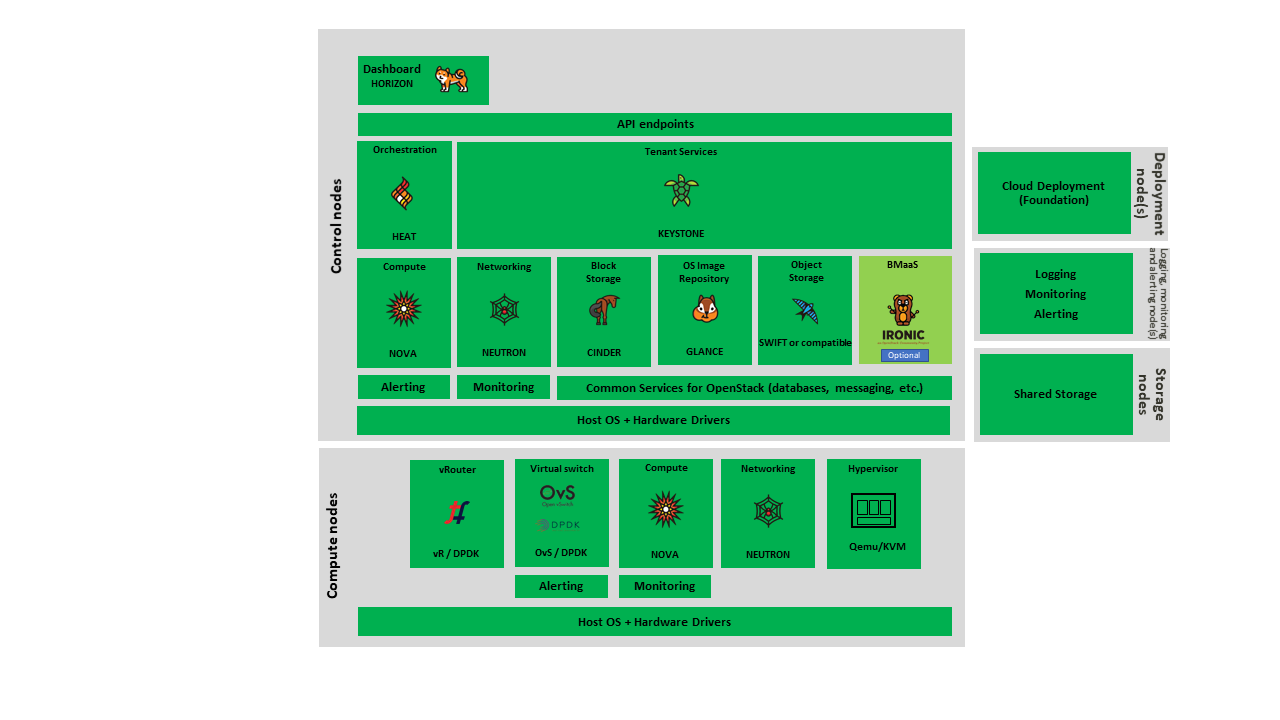
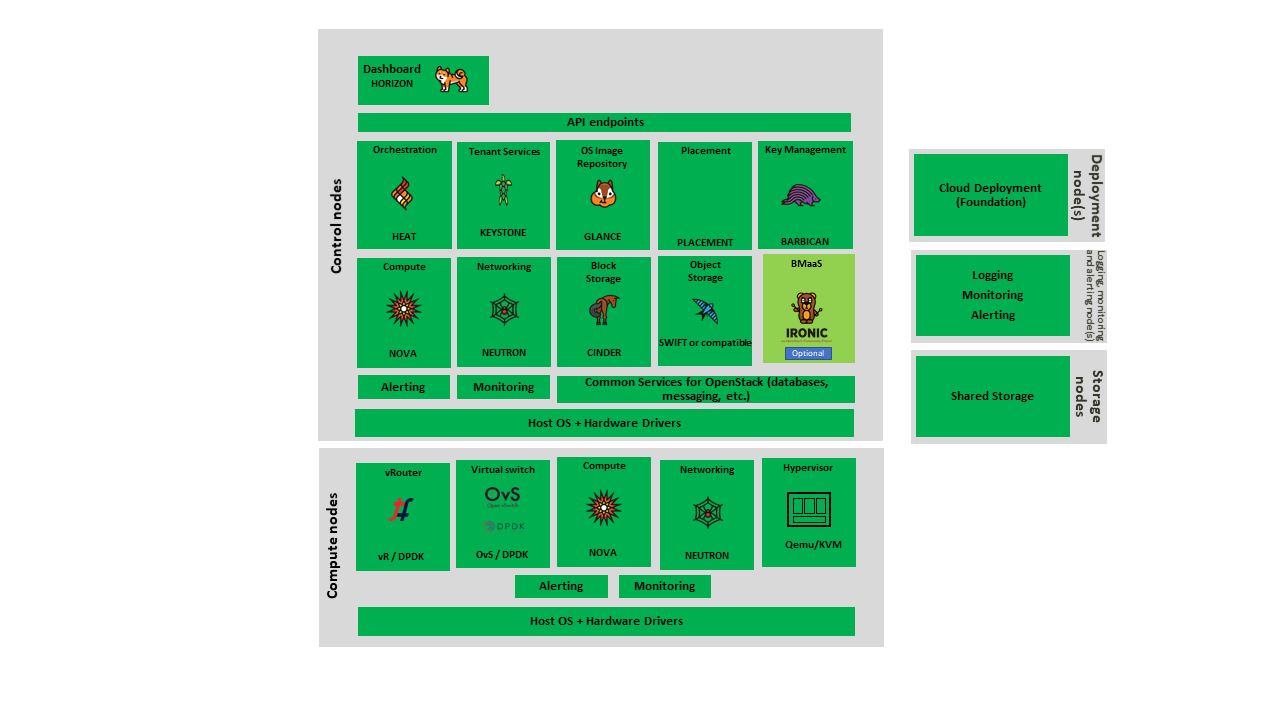
[RA1 Ch03] Placement Service (#1938)
* [RA1 Ch03] Placement Service

3.3.1.3 Cloud Controller Services: Split Nova entry into Placement and Nova

Fixes #1887

* [RA1 Ch04] Placement Service

Changes to 4.3.1.6 Nova and 4.3.1.10 Placement for OSTK Train.

* [RA1 Figures] Delete Core Srevices Figure

Delete RA1-Ch03-Core-Cloud-Infra-Services.png -- will be replaced by new Figure

* [RA1 Figures] Upload New Core Services Figure

Upload New Core Services Figure with Barbican and Placement Srevices

* [RA1 Figures] Upload New Core Srevices Figure

* [RA1 Figures] Delete old source file

Delete old source file -- will be replaced with source file for updated figure

* [RA1 Figures] Upload Source for Update Figure

* [RA1 Ch04] 4.3.1.10 spelling "prior"

Changed region(s): [[0.2812, 0.0306, 0.9375, 0.9167], [0.4062, 0.8556, 0.5625, 0.8861]]

diff --git a/doc/ref_arch/openstack/chapters/chapter04.md b/doc/ref_arch/openstack/chapters/chapter04.md
@@ -565,13 +565,14 @@ SDN provides a truly scalable and preferred solution to suport dynamic, very lar
 #### 4.3.1.6 Nova
 Nova is the compute management service, Nova depends on all above components and is deployed after. Nova has services running on the control nodes and the compute nodes:
 -	nova-metadata-api
--	nova-placement-api
 -	nova-compute api
 -	nova-consoleauth
 -	nova-scheduler
 -	nova-conductor
 -	nova-novncproxy
 -	nova-compute-agent which runs on Compute node
+
+Please note that the Placeemnt-API must have been installed and configured prior to nova compute starts.
 
 #### 4.3.1.7 Ironic
 Ironic is the bare metal provisioning service. Ironic depends on all above components and is deployed after. Ironic has services running on the control nodes and the compute nodes:
@@ -600,7 +601,7 @@ Cyborg is the acceleration resources management service. Cyborg depends on Nova 
 -->
 
 #### 4.3.1.10 Placement
-The OpenStack Placement service enables tracking (or accounting) and scheduling of resources. It provides a RESTful API and a data model for the managing of resource provider inventories and usage for different classes of resources. In addition to standard resource classes, such as VCPU, MEMORY_MB and DISK_GB, the Placement service supports custom resource classes (prefixed with “CUSTOM_”).  The placement service is primarily utilized by nova-compute and nova-scheduler. Other OpenStack services such as Neutron or Cyborg can also utilize placement and do so by creating [Provider Trees]( https://docs.openstack.org/placement/latest/user/provider-tree.html). The following data objects are utilized in the [placement service]( https://docs.openstack.org/placement/latest/user/index.html): 
+The OpenStack [Placement service](https://docs.openstack.org/placement/train/index.html) enables tracking (or accounting) and scheduling of resources. It provides a RESTful API and a data model for the managing of resource provider inventories and usage for different classes of resources. In addition to standard resource classes, such as vCPU, MEMORY_MB and DISK_GB, the Placement service supports custom resource classes (prefixed with “CUSTOM_”) provided by some external resource pools such as a shared storage pool provided by, say, Ceph.  The placement service is primarily utilized by nova-compute and nova-scheduler. Other OpenStack services such as Neutron or Cyborg can also utilize placement and do so by creating [Provider Trees]( https://docs.openstack.org/placement/latest/user/provider-tree.html). The following data objects are utilized in the [placement service]( https://docs.openstack.org/placement/latest/user/index.html): 
 
 <p>Resource Providers provide consumable inventory of one or more classes of resources (cpu, memory or disk). A resource provider can be a compute host, for example.</p>
     
@@ -613,6 +614,12 @@ The OpenStack Placement service enables tracking (or accounting) and scheduling 
 <p>Allocations represent resources that have been assigned/used by some consumer of that resource.</p>
     
 <p>Allocation candidates is the collection of resource providers that can satisfy an allocation request.</p>
+
+
+The Placement API is stateless and, thus, resiliency, availability and scaling, it is possible to deploy as many servers as needed. On start, the nova-compute service will attempt to make a connection to the Placement API and keep attempting to connect to the Placement API, logging and warning periodically until successful. Thus, the Placement API must be installed and enabled prior to Nova compute.
+
+Placement has services running on the control node:
+-	nova-placement-api
 
 #### 4.3.1.11 Barbican
 [Barbican](https://docs.openstack.org/barbican/train/) is the OpenStack Key Manager service. It is an optional service hosted on controller nodes. It provides secure storage, provisioning and management of secrets as passwords, encryption keys and X.509 Certificates. Barbican API is used to centrally manage secrets used by OpenStack services, e.g. symmetric encryption keys used for Block storage encryption or Object Storage encryption or asymmetric keys and certificates used for Glance image signing and verification. 

diff --git a/doc/ref_arch/openstack/chapters/chapter03.md b/doc/ref_arch/openstack/chapters/chapter03.md
@@ -207,18 +207,19 @@ The following OpenStack components are deployed on the Infrastructure. Some of t
 
 | RM Management Software| Service| Description| Required / Optional| Deployed on Controller Nodes| Deployed on Compute Nodes |
 |-----------------------|-------------|----------------------|----------------|-----------|---------|
-| Identity Management (Additional Management Functions) + Catalogue| Keystone| the authentication service| Required| X|  |
-| Storage Resources Manager| Glance| the image management service| Required| X|  |
-| Storage Resources Manager | Cinder| the block storage management service| Required| X|  |
-| Storage Resources Manager| Swift| the Object storage management service| Required| X|   |
-| Network Resources Manager| Neutron| the network management service| Required| X| X |
-| Compute Resources Manager + Inventory + Scheduler | Nova| the compute resources management service| Required| X| X |
-| Compute Resources Manager| Ironic| the Bare Metal Provisioning service| Optional| X| X |
-| (Tool that utilizes APIs)| Heat| the orchestration service| Required| X|  |
+| Identity Management (Additional Management Functions) + Catalogue| Keystone| the authentication service| Required| X |  |
+| Storage Resources Manager| Glance| the image management service| Required| X |  |
+| Storage Resources Manager | Cinder| the block storage management service| Required| X |  |
+| Storage Resources Manager| Swift| the Object storage management service| Required| X |   |
+| Network Resources Manager| Neutron| the network management service| Required| X | X |
+| Compute Resources Inventory | Placement | resource provider inventory service | Required | X |   |
+| Compute Resources Manager + Scheduler | Nova| the compute resources management service| Required| X| X |
+| Compute Resources Manager| Ironic| the Bare Metal Provisioning service| Optional| X | X |
+| (Tool that utilizes APIs)| Heat| the orchestration service| Required| X |  |
 | UI| Horizon| the WEB UI service| Required| X|  |
-| Key Manager| Barbican| the secret data management service| Optional| X|  |
+| Key Manager| Barbican| the secret data management service| Optional| X |  |
 <!--
-| Acceleration Resources Manager| Cyborg| the acceleration resources management| Optional| X| X |
+| Acceleration Resources Manager| Cyborg| the acceleration resources management| Optional| X | X |
 -->
 
 All components must be deployed within a high available architecture that can withstand at least a single node failure and respects the anti-affinity rules for the location of the services (i.e. instances of a same service must run on different nodes).
